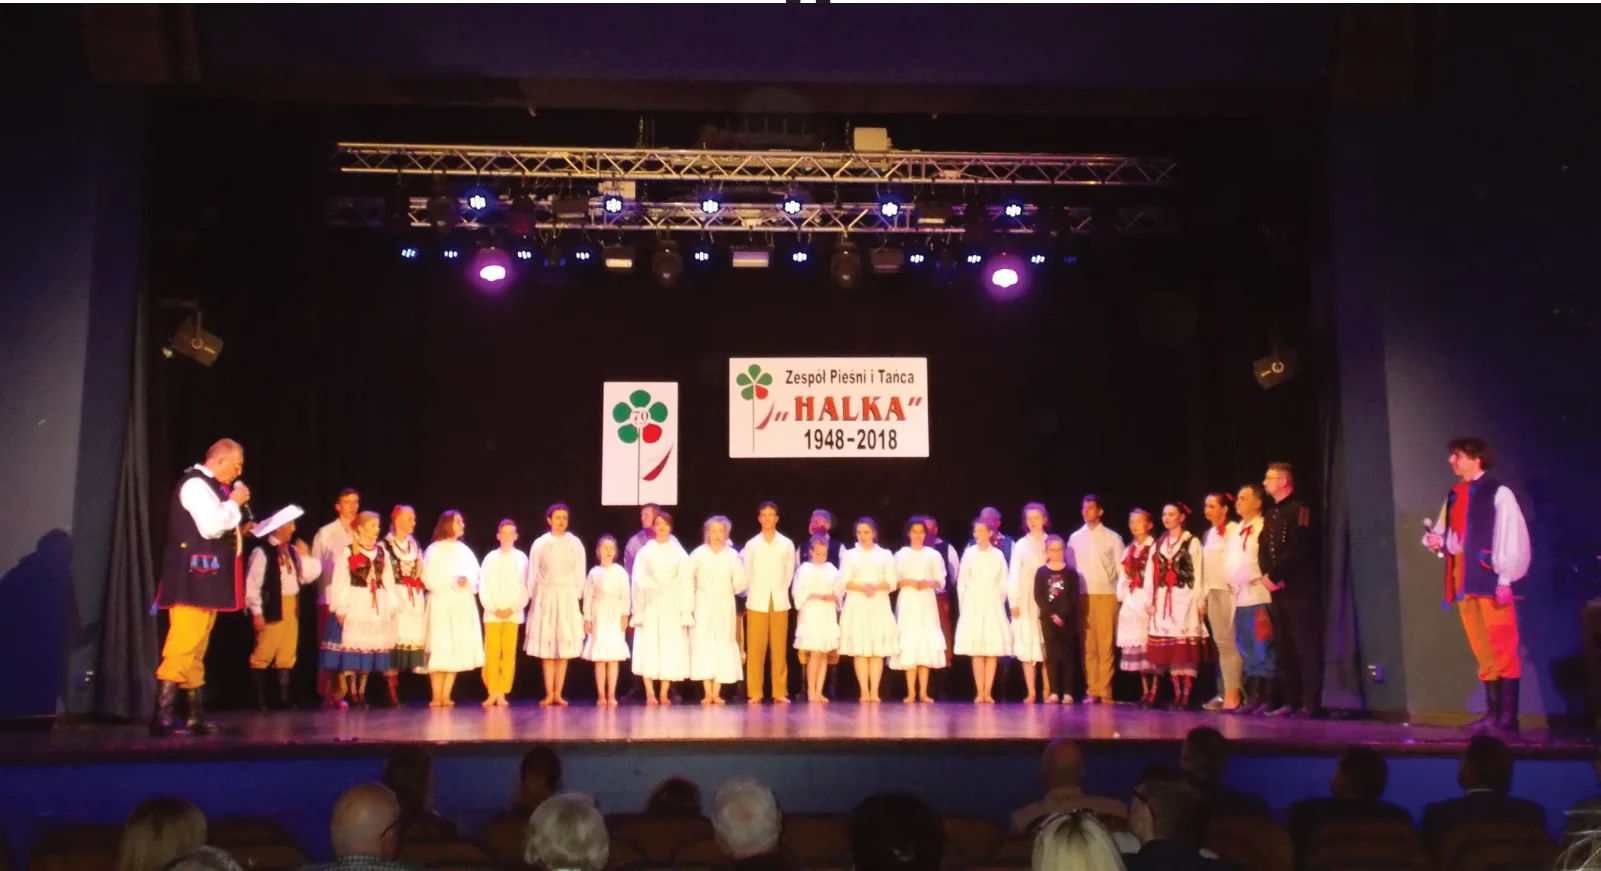
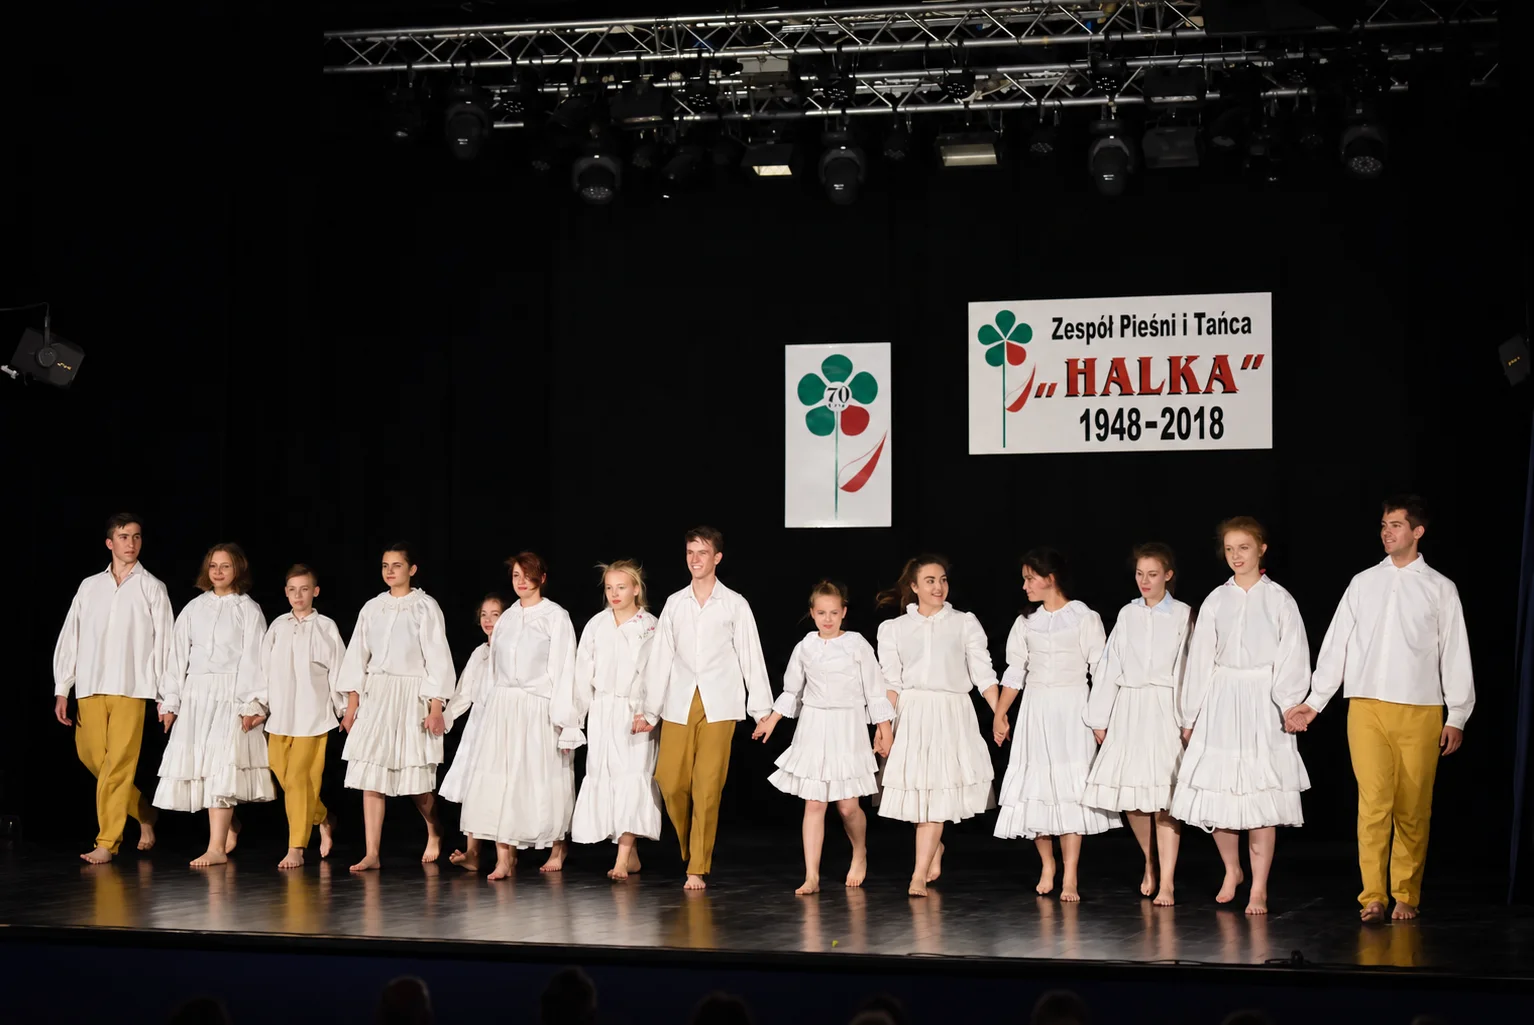
[0008] History page - stage 1. initial commit

diff --git a/content/history.ts b/content/history.ts
@@ -15,6 +15,7 @@ export type HistoryChapter = {
   layout?: "pair" | "wide" | "portrait";
   note?: { title: string; text: string };
   sourcePages: number[];
+  textFullWidth?: boolean;
 };
 const photo = (file: string, width: number, height: number, alt: string, caption: string): HistoryPhoto => ({
   src: `/history/${file}.webp`, width, height, alt, caption,
@@ -63,6 +64,7 @@ export const historyChapters: HistoryChapter[] = [
     ],
     photos: [photo("wernigerode-1970", 1601, 1020, "Tancerki w wirujących spódnicach podczas występu na rynku w Wernigerode", "1970. Koncert w Wernigerode, ówczesna NRD."), photo("jubileusz-1978", 1601, 1074, "Zespół Halka na scenie podczas koncertu z okazji trzydziestolecia", "1978. Trzydzieści lat Halki na scenie.")],
     layout: "pair", sourcePages: [5, 6, 7],
+    textFullWidth: true,
   },
   {
     id: "przyjaznie", years: "1981–1988", label: "Ponad granicami", title: "Podróże, z których zostają przyjaźnie",
@@ -72,6 +74,7 @@ export const historyChapters: HistoryChapter[] = [
     ],
     photos: [photo("krems-1981", 1601, 1049, "Członkowie Halki w strojach ludowych na ulicy austriackiego Krems", "1981. Halka w Krems, Austria."), photo("jubileusz-1983", 1601, 909, "Wspólny portret członków zespołu na scenie pod napisem 35 lat w służbie kultury", "1983. Pamiątka jubileuszu 35-lecia.")],
     layout: "pair", sourcePages: [8, 11],
+    textFullWidth: true,
   },
   {
     id: "pokolenia", years: "1990–2003", label: "Kolejne pokolenie", title: "Pół wieku i nowe twarze",
@@ -90,6 +93,7 @@ export const historyChapters: HistoryChapter[] = [
     ],
     photos: [photo("mala-halka-2005-2007", 1601, 1101, "Dzieci z Małej Halki w strojach ludowych pozujące na trawie w Kokotku", "2005–2007. „Mała Halka” w Kokotku."), photo("opawa-2010", 1601, 1087, "Młodzi członkowie Halki w strojach ludowych z biało-czerwoną flagą w Opawie", "2010. Przegląd folklorystyczny w Opawie.")],
     layout: "pair", sourcePages: [10],
+    textFullWidth: true,
   },
   {
     id: "jubileusze", years: "2013–2018", label: "Wspólna scena", title: "Siedemdziesiąt lat razem",
@@ -115,5 +119,6 @@ export const historyChapters: HistoryChapter[] = [
       photo("halka-wisla", 2500, 1667, "Członkowie Halki w strojach ludowych pozują do wspólnego zdjęcia w Wiśle", "Halka w Wiśle podczas Tygodnia Kultury Beskidzkiej."),
     ],
     layout: "wide", sourcePages: [],
+    textFullWidth: true,
   },
 ];

diff --git a/app/history.css b/app/history.css
@@ -54,6 +54,8 @@ html:has(.history-page) { scroll-padding-top: 0; }
 .history-story { min-width: 0; }
 .history-chapter { position: relative; display: grid; grid-template-columns: minmax(0, 1fr) minmax(0, 1fr); align-items: start; gap: 42px; margin-bottom: clamp(80px, 9vw, 135px); scroll-margin-top: 40px; }
 .history-chapter-copy { min-width: 0; }
+.history-chapter-copy--full { max-width: none !important; }
+.history-chapter-copy--full > p { max-width: none !important; }
 .history-years { margin: 0 0 17px; font-family: var(--font-display), Georgia, serif; font-size: clamp(1.85rem, 2.7vw, 2.65rem); font-weight: 420; color: var(--v2-red-dark); font-variant-numeric: lining-nums; line-height: 1.15; }
 .history-chapter h2 { margin: 0 0 23px; font-family: var(--font-display), Georgia, serif; font-size: clamp(1.9rem, 3vw, 2.8rem); font-weight: 470; letter-spacing: -0.025em; line-height: 1.1; text-wrap: balance; }
 .history-chapter-copy > p:not(.history-years) { max-width: 65ch; margin: 0 0 18px; font-size: 1rem; line-height: 1.85; text-wrap: pretty; }
@@ -76,7 +78,7 @@ html:has(.history-page) { scroll-padding-top: 0; }
 #przyjaznie .history-photo:nth-child(2) { margin-top: 85px; }
 #dzisiaj { margin-bottom: 50px; }
 #dzisiaj .history-chapter-copy { max-width: 780px; }
-#dzisiaj .history-chapter-photos { display: block; width: min(100%, 900px); margin: 16px auto 0; padding: 0 18px; columns: 2; column-gap: 24px; }
+#dzisiaj .history-chapter-photos { display: block; margin: 16px auto 0; columns: 2; column-gap: 24px; }
 #dzisiaj .history-photo { display: inline-block; width: 100%; margin: 0 0 24px; break-inside: avoid; }
 #dzisiaj .history-photo:nth-child(2) { margin-top: 42px; }
 #dzisiaj .history-photo-button { overflow: hidden; }
@@ -143,7 +145,7 @@ html:has(.history-page) { scroll-padding-top: 0; }
   .history-chapter--pair .history-photo:nth-child(2), #przyjaznie .history-photo:nth-child(2) { margin-top: 0; }
   .history-chapter--portrait .history-chapter-photos { gap: 14px; }
   .history-cover-photo .history-photo-button { padding: 7px; }
-  #dzisiaj .history-chapter-photos { width: min(100%, 430px); padding-inline: 8px; columns: 1; }
+  #dzisiaj .history-chapter-photos { padding-inline: 8px; columns: 1; }
   #dzisiaj .history-photo, #dzisiaj .history-photo:nth-child(2) { margin: 0 0 22px; }
 }
 @media (prefers-reduced-motion: reduce) {

diff --git a/app/HistoryPage.tsx b/app/HistoryPage.tsx
@@ -100,7 +100,7 @@ export function HistoryPage({ shared }: { shared: SharedContent }) {
             <div className="history-story">
               {historyChapters.map((chapter) => (
                 <div id={chapter.id} className={`history-chapter history-chapter--${chapter.layout ?? "split"}`} key={chapter.id} aria-labelledby={`${chapter.id}-title`}>
-                  <div className="history-chapter-copy">
+                  <div className={`history-chapter-copy ${chapter.textFullWidth ? "history-chapter-copy--full" : ""}`}>
                     <p className="history-years">{chapter.years}</p>
                     <h2 id={`${chapter.id}-title`}>{chapter.title}</h2>
                     {chapter.paragraphs.map((paragraph) => <p key={paragraph}>{paragraph}</p>)}
